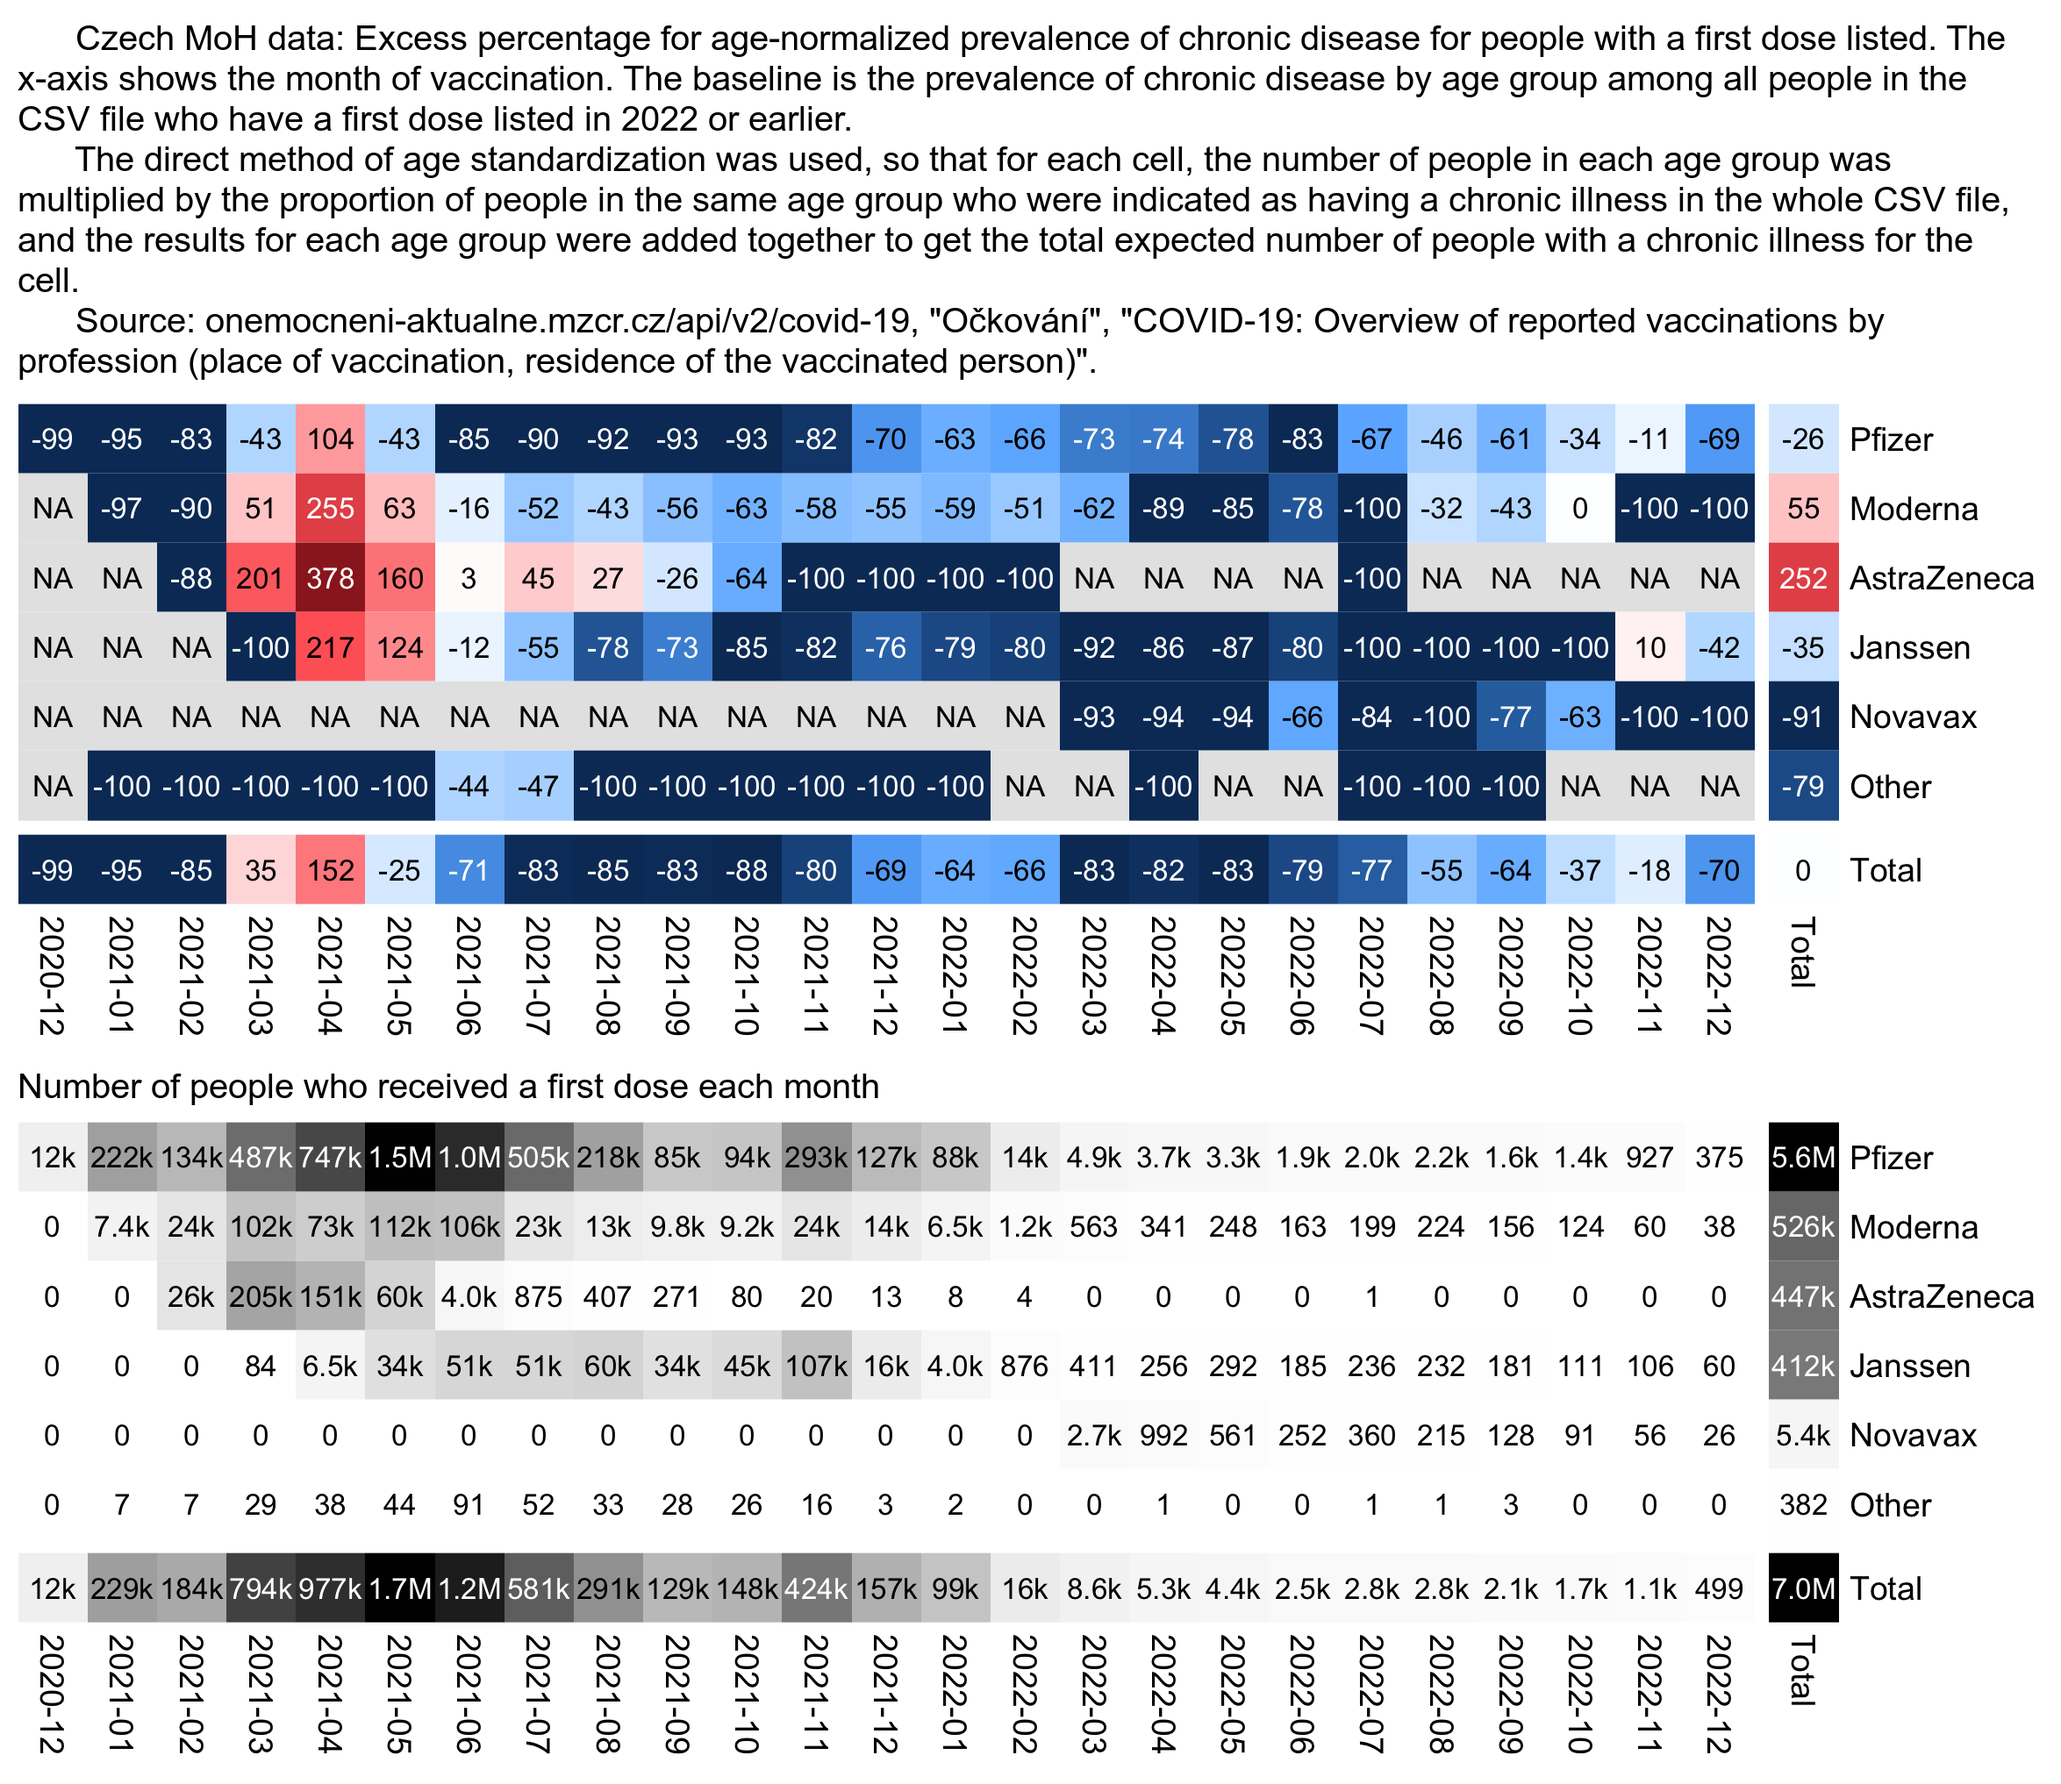
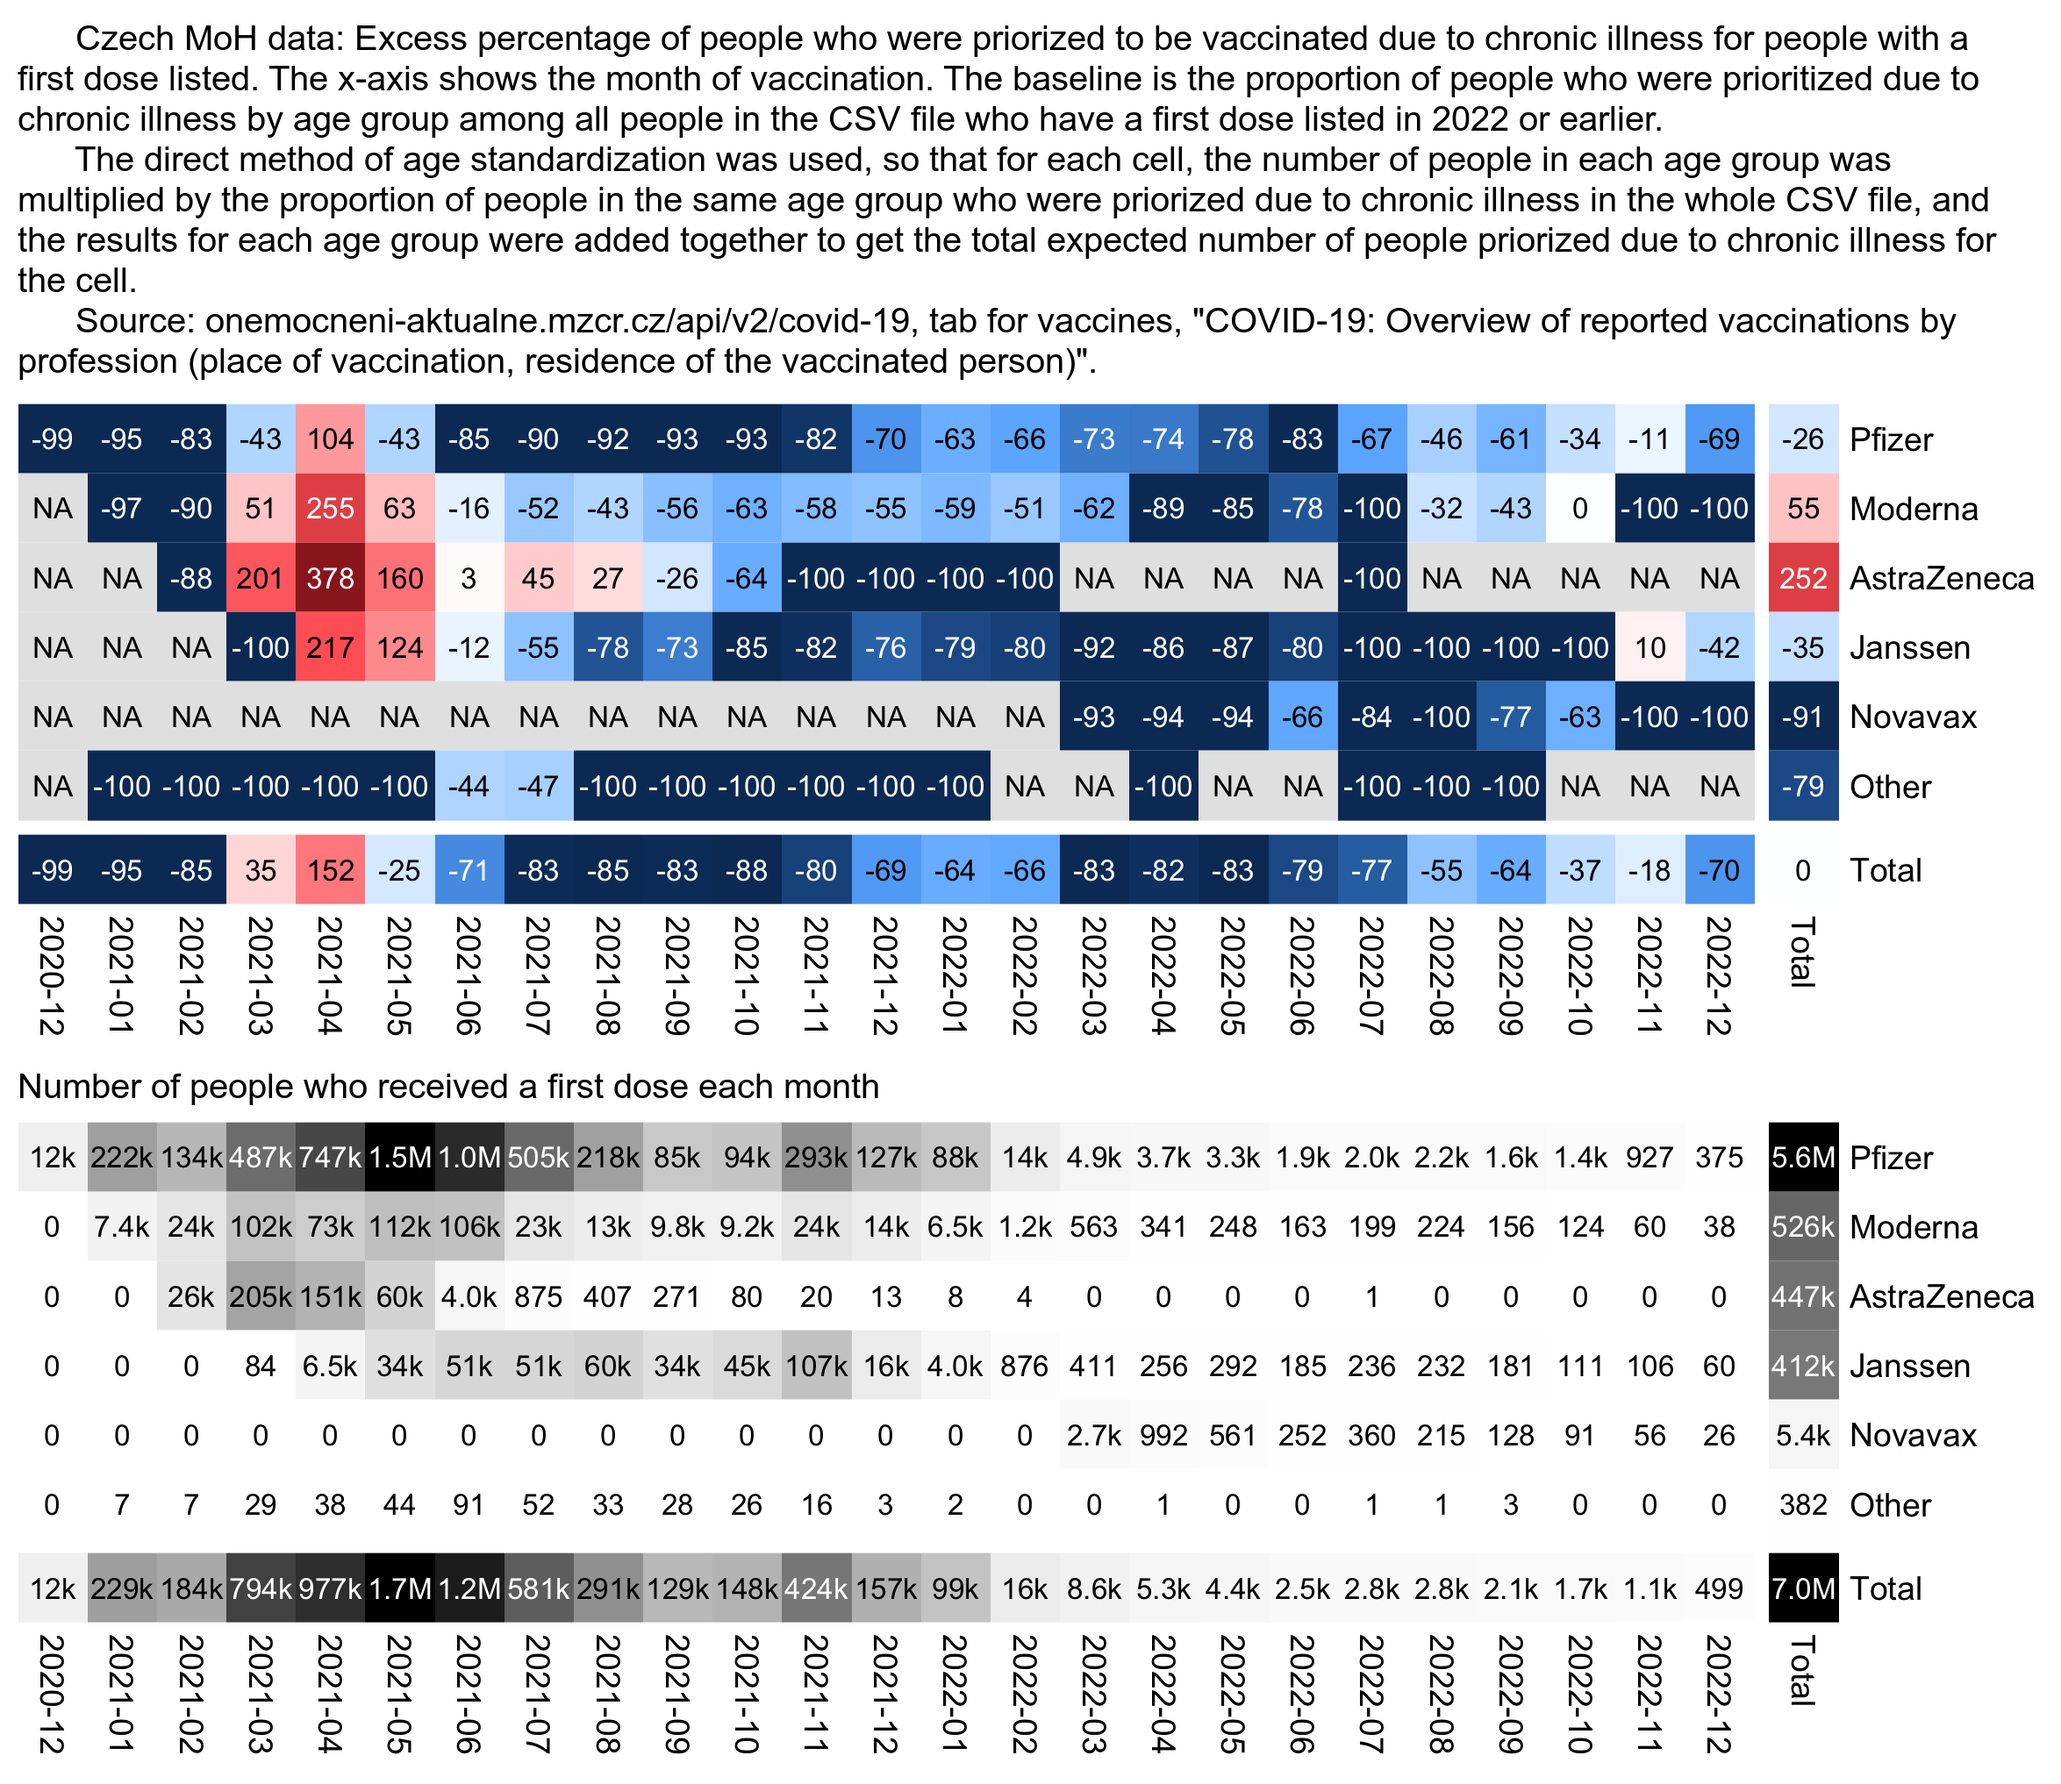
a

Changed region(s): [[0.0, 0.0, 0.9634, 0.1858]]

diff --git a/czech3.html b/czech3.html
@@ -56,7 +56,7 @@ blockquote blockquote blockquote,blockquote blockquote .quote,blockquote .quote 
 <p>Parts 1 and 2 are here: <a href=czech.html>czech.html</a>, <a href=czech2.html>czech2.html</a>.</p>
 <h2 id=Contents><a href=#Contents>Contents</a></h2>
 <ul>
-<li><a href=#Prevalence_of_chronic_disease_by_vaccine_type>Prevalence of chronic disease by vaccine type</a></li>
+<li><a href=#People_who_were_eligible_to_be_vaccinated_early_due_to_a_chronic_illness>People who were eligible to be vaccinated early due to a chronic illness</a></li>
 <li><a href=#Hospitalizations_by_vaccine_type>Hospitalizations by vaccine type</a></li>
 <li><a href=#Moderna_Pfizer_ratio_by_weeks_after_vaccination>Moderna-Pfizer ratio by weeks after vaccination</a></li>
 <li><a href=#Efficacy_against_hospitalization_relative_to_a_baseline_of_unvaccinated_people>Efficacy against hospitalization relative to a baseline of unvaccinated people</a></li>
@@ -66,14 +66,14 @@ blockquote blockquote blockquote,blockquote blockquote .quote,blockquote .quote 
 </ul>
 
 <h2>
-<a href=#Prevalence_of_chronic_disease_by_vaccine_type id=Prevalence_of_chronic_disease_by_vaccine_type>Prevalence of chronic disease by vaccine type</a>
+<a href=#People_who_were_eligible_to_be_vaccinated_early_due_to_a_chronic_illness id=People_who_were_eligible_to_be_vaccinated_early_due_to_a_chronic_illness>People who were eligible to be vaccinated early due to a chronic illness</a>
 </h2>
 <p>Uncle John Returns posted the tables below on Twitter and wrote: <span class="quote">&quot;Turns out that those Czechs who received a dose of Moderna in 2021 were twice as likely to have a pre-existing chronic condition as those who had Pfizer with AZ higher still. [...] The source is a ministry of health file which has 1 row per dose (so 3.68 GB) with other data such as the age band, sex and place of residence. Available on the vaccinations tab here <a href="https://onemocneni-aktualne.mzcr.cz/api/v2/covid-19">https://onemocneni-aktualne.mzcr.cz/api/v2/covid-19</a>.&quot;</span> [<a href="https://x.com/UncleJo46902375/status/1814375808062112215">https://x.com/UncleJo46902375/status/1814375808062112215</a>]</p>
 <div class="maxwidth">
 <img src=i/czech-chronic-1.png class=width5><img src=i/czech-chronic-2.png class=width4>
 </div>
-<p>The value of the <code>indikace_chronicke_onemocneni</code> field (indication chronic disease) is always either 1 or empty.</p>
-<p>For first doses, the overall percentage of chronic diseases was surprisingly low because it was under 10% in all age groups except ages 65-69:</p>
+<p>The value of the <code>indikace_chronicke_onemocneni</code> field (indication chronic illness) is always either 1 or empty.</p>
+<p>For first doses, at first I thought that the percentage of people where the value of the <span class="quote">&quot;indication chronic illness&quot;</span> column was 1 was surprisingly low, because there's only one age group where it's above 10%, and the percentage seemed to be fairly high in young age groups relative to old age groups:</p>
 <pre>download.file(&quot;https://onemocneni-aktualne.mzcr.cz/api/v2/covid-19/ockovani-profese.csv&quot;,&quot;ockovani-profese.csv&quot;)
 
 t=fread(&quot;ockovani-profese.csv&quot;)
@@ -102,7 +102,8 @@ d[,.(chronicpct=round(sum(chronic)/sum(N)*100,1)),age][order(age)]|&gt;print(r=F
   70        5.3
   75        2.1
   80        1.1</pre>
-<p>When I calculated an age-normalized prevalence of chronic conditions relative to the prevalence among all people who are included in the CSV file for each age group, the excess prevalence was about -26% for the first dose type <span class="quote">&quot;Comirnaty&quot;</span> (Pfizer) but about 55% for <span class="quote">&quot;SPIKEVAX&quot;</span> (Moderna):</p>
+<p>However later on people realized that actually the column does not mean if the person had a chronic illness or not, but actually it meant something like the person was eligible to be vaccinated early because they had a chronic illness. So that explains the low percentages.</p>
+<p>In the following code I calculated an age-normalized proportion of people whose <span class="quote">&quot;indication chronic illness&quot;</span> column was true by vaccine type, so that my baseline was the proportion of the column by age group among all people who are included in the CSV file. The excess proportion of the column was about -26% for the first dose type <span class="quote">&quot;Comirnaty&quot;</span> (Pfizer) but about 55% for <span class="quote">&quot;SPIKEVAX&quot;</span> (Moderna):</p>
 <pre>a=d[,.(N=sum(N),chronic=sum(chronic)),.(age,type)]
 a=merge(a,d[,.(base=sum(chronic)/sum(N)),age])[,base:=base*N]
 a[,.(pct=round((sum(chronic)/sum(base)-1)*100),N=sum(N)),type][order(-N)]|&gt;print(r=F)</pre>
@@ -131,11 +132,11 @@ a[,.(pct=round((sum(chronic)/sum(base)-1)*100),N=sum(N)),type][order(-N)]|&gt;pr
  SPIKEVAX BIVALENT ORIGINAL/OMICRON BA.4-5  310       5
                                    Valneva -100       2
                                       type  pct       N</pre>
-<p>I was expecting the late vaccinees who got the first dose in late 2020 to have a higher age-normalized prevalence of chronic disease than people who got vaccinated during the rollout peak, but for some reason I got the opposite result:</p>
+<p>Before I realized that the <span class="quote">&quot;indication chronic illness&quot;</span> meant if a person was priorized to be vaccinated because of chronic illness, I was expecting the late vaccinees who got the first dose in late 2021 to have a higher age-normalized proportion of the column than people who got vaccinated during the rollout peak, but actually I got the opposite result. However I misunderstood the value of the column, and actually it makes sense that there would no longer be many people who were eligible to get vaccinated early but who only got vaccinated in late 2021:</p>
 <div class="width8">
 <img src="i/czech-chronic-3.png">
 </div>
-<p>This shows the percentage of people by age group and vaccine type who were indicated as having a chronic disease. I again only included first doses:</p>
+<p>This shows the percentage of people by age group and vaccine type who were eligible to be vaccinated early due to chronic illness. I again only included first doses:</p>
 <pre>t=fread(&quot;ockovani-profese.csv&quot;)
 
 name1=unique(t$vakcina);name2=rep(&quot;Other&quot;,length(name1))
@@ -234,9 +235,9 @@ pheatmap::pheatmap(pop^exp2,filename=&quot;i2.png&quot;,display_numbers=ifelse(p
   breaks=seq(0,maxcolor2^exp2,,256),
   sapply(seq(1,0,,256),\(i)rgb(i,i,i)))
 
-cap=&quot;\u00a0     Czech MoH data: Excess percentage for age-normalized prevalence of chronic disease for people with a first dose listed. The x-axis shows the month of vaccination. The baseline is the prevalence of chronic disease by age group among all people in the CSV file who have a first dose listed in 2022 or earlier.
-      The direct method of age standardization was used, so that for each cell, the number of people in each age group was multiplied by the proportion of people in the same age group who were indicated as having a chronic illness in the whole CSV file, and the results for each age group were added together to get the total expected number of people with a chronic illness for the cell.
-      Source: onemocneni-aktualne.mzcr.cz/api/v2/covid-19, \&quot;COVID-19: Overview of reported vaccinations by profession (place of vaccination, residence of the vaccinated person)\&quot;.&quot;
+cap=&quot;\u00a0     Czech MoH data: Excess percentage of people who were priorized for vaccination due to chronic illness out of all people with a first dose listed. The x-axis shows the month of vaccination. The baseline is the proportion of people who were prioritized due to chronic illness by age group among all people in the CSV file who have a first dose listed in 2022 or earlier.
+      The direct method of age standardization was used, so that for each cell, the number of people in each age group was multiplied by the proportion of people in the same age group who were priorized due to chronic illness in the whole CSV file, and the results for each age group were added together to get the total expected number of people priorized due to chronic illness for the cell.
+      Source: onemocneni-aktualne.mzcr.cz/api/v2/covid-19, tab for vaccines, \&quot;COVID-19: Overview of reported vaccinations by profession (place of vaccination, residence of the vaccinated person)\&quot;.&quot;
 
 system(paste0(&quot;w=`identify -format %w i1.png`;pad=20;magick -pointsize 40 -font Arial \\( -size $[w-pad*3]x caption:&#39;&quot;,cap,&quot;&#39; -splice $[pad]x20 \\) \\( i1.png -crop -0+8 \\) \\( -size $[w-pad*3]x caption:&#39;Number of people who received a first dose each month&#39; -splice $[pad]x0 \\) \\( i2.png -crop -0+8 \\) -append 1.png&quot;))</pre>
 <h2>
